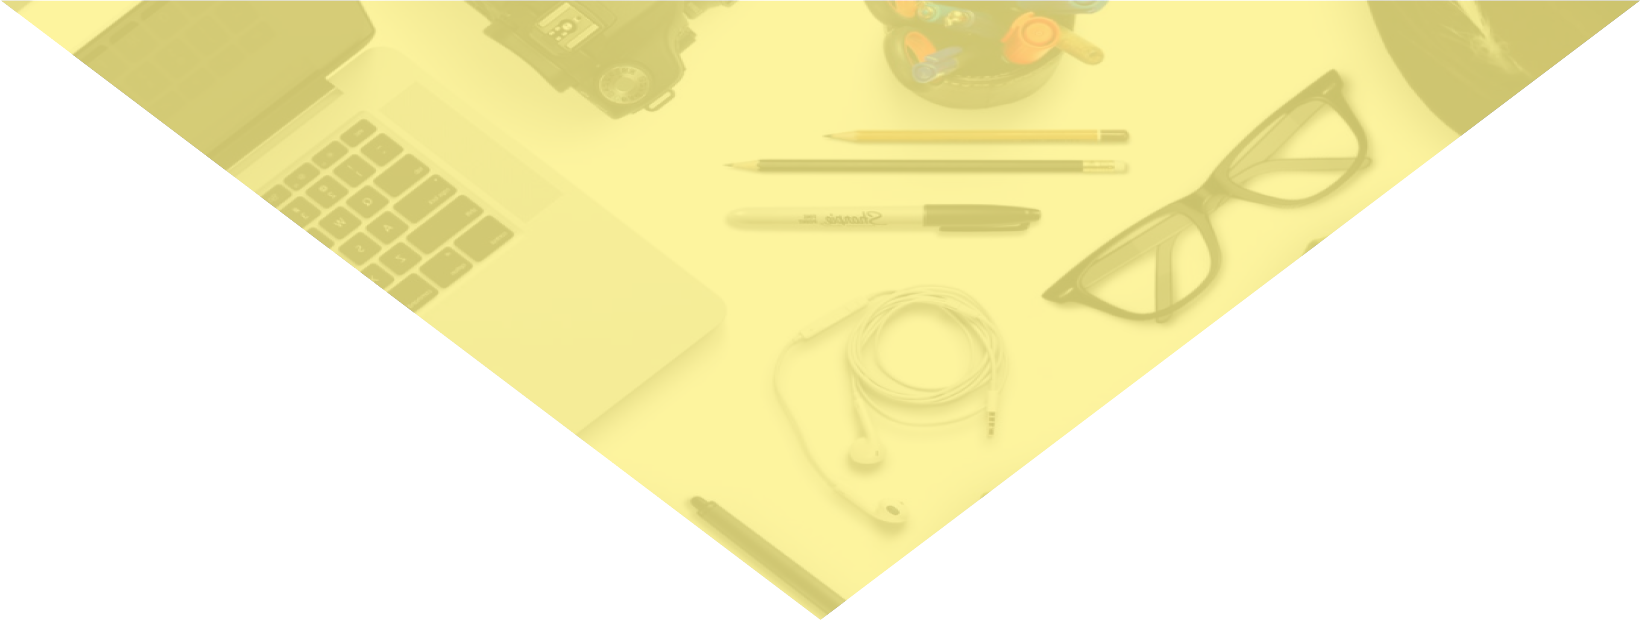
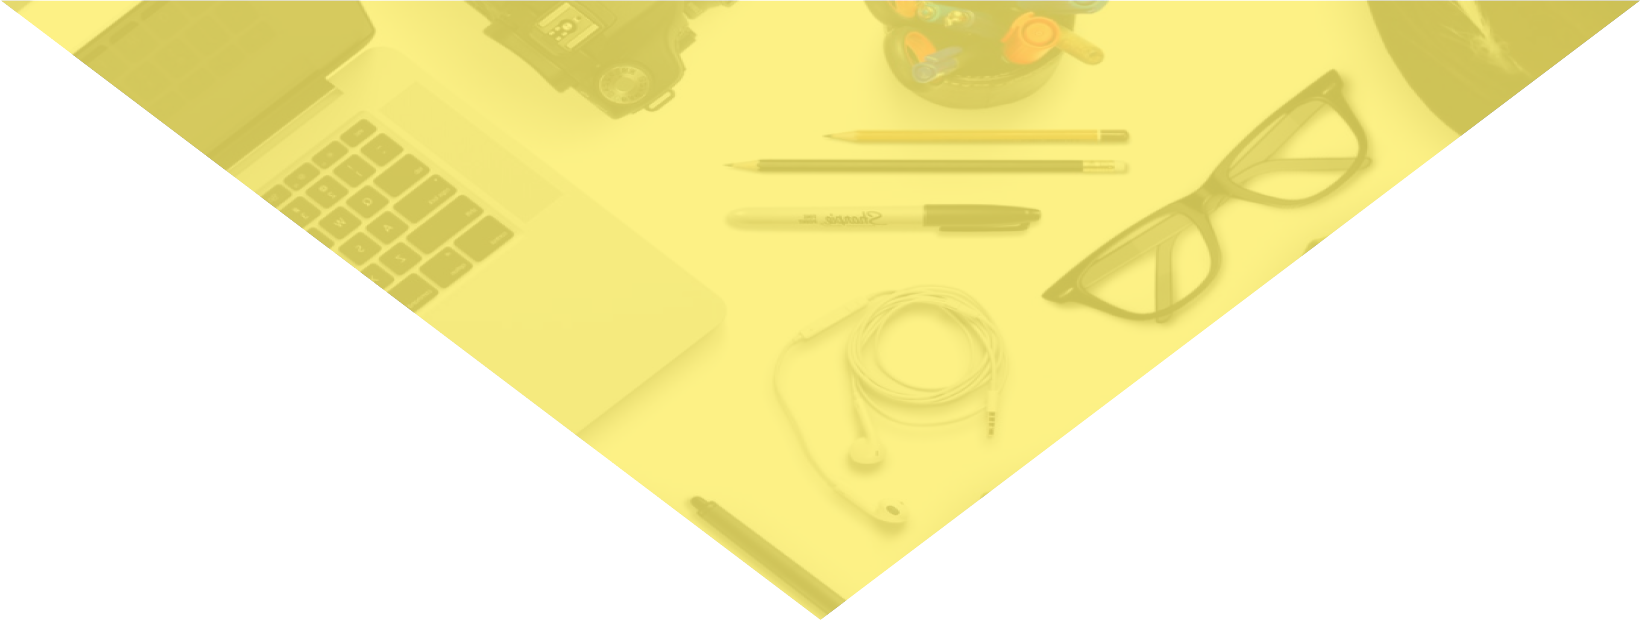
transitions-on-page-change

diff --git a/src/components/MainComponent.js b/src/components/MainComponent.js
@@ -8,6 +8,7 @@ import WorkInfo from './WorkInfoComponent';
 import Contact from './ContactComponent';
 import { Switch, Route, Redirect, withRouter } from 'react-router-dom';
 import { connect } from 'react-redux';
+import { TransitionGroup, CSSTransition } from 'react-transition-group';
 
 const mapStateToProps = state => {
     return {
@@ -37,17 +38,22 @@ class Main extends Component {
             );
         };
 
+
         return (
             <div>
                 <Header />
-                <Switch>
-                    <Route exact path='/home' component={MainPage} />
-                    <Route exact path='/about' component={MainPage} />
-                    <Route exact path='/work' render={() => <Work examples={this.props.examples} />} />
-                    <Route path='/work/:exampleId' component={WorkMatchClick} />
-                    <Route exact path='/contactus' component={Contact} />
-                    <Redirect to='/home' />
-                </Switch>
+                <TransitionGroup>
+                    <CSSTransition key={this.props.location.key} classNames="page" timeout={300}>
+                        <Switch>
+                            <Route exact path='/home' component={MainPage} />
+                            {/* <Route exact path='/about' component={MainPage} /> */}
+                            <Route exact path='/work' render={() => <Work examples={this.props.examples} />} />
+                            <Route path='/work/:exampleId' component={WorkMatchClick} />
+                            <Route exact path='/contactus' component={Contact} />
+                            <Redirect to='/home' />
+                        </Switch>
+                    </CSSTransition>
+                </TransitionGroup>
                 <Footer />
             </div>
 

diff --git a/src/components/HeaderComponent.js b/src/components/HeaderComponent.js
@@ -34,14 +34,14 @@ class Header extends Component {
                                 {/* <a href="#home_id">
                                     HOME</a> */}
                             </NavItem>
-                            <NavItem>
+                            {/* <NavItem>
                                 <NavLink className="nav-link" to="/about">
                                     ABOUT
-                                    </NavLink>
+                                    </NavLink> */}
 
                                 {/* <a href="#about_id">
                                     ABOUT</a> */}
-                            </NavItem>
+                            {/* </NavItem> */}
                             <NavItem>
                                 <NavLink className="nav-link" to="/work">
                                     WORK

diff --git a/src/App.css b/src/App.css
@@ -282,6 +282,36 @@ h5{
     font-size: 0.8rem;
   }
 
+  /* transitions */
+  .page-enter {
+    opacity: 0;
+}
+
+.page-enter-active {
+    opacity: 1;
+    transition: 300ms ease-out;
+}
+
+.page-exit {
+    opacity: 1;
+}
+
+.page-exit-active {
+    opacity: 0;
+    transition: 300ms ease-in;
+}
+
+/* .page-enter {
+  opacity: 0;
+  transform: translateX(-100%);
+}
+
+.page-enter-active {
+  opacity: 1;
+  transform: translateX(0%);
+  transition: 300ms ease-out;
+} */
+
 /* media-queries */
 
 @media (min-width: 576px){
@@ -316,6 +346,11 @@ h5{
   }
 
   /* GraphicComponent */
+  .hero-graphic-photo {
+    padding:0 80px;
+  }
+
+  /* GraphicComponent */
   .overlayed-text h4{
     font-size: 1rem;
   }
@@ -325,7 +360,7 @@ h5{
   }
 
   .graphic-intro-text{
-    max-width:250px;
+    max-width:230px;
   }
 
   /* GraphicComponent */

diff --git a/src/components/AboutComponent.js b/src/components/AboutComponent.js
@@ -4,7 +4,7 @@ import { Button } from 'reactstrap';
 function About(props) {
 
     return (
-        <div id="about_id" className="container my-5">
+        <div id='about_id' className="container my-5">
             <div classname="row">
                 <div className="col-8 text-center pb-4 mx-auto">
                     <h2>ABOUT ME</h2>
@@ -20,5 +20,4 @@ function About(props) {
     );
 }
 
-
-export default About;
+    export default About;

diff --git a/src/shared/hero.js b/src/shared/hero.js
@@ -3,6 +3,6 @@ export const HERO =  [
         id:0,
         title:"Hi!",
         intro:"MY NAME IS ALICIA MORLEY AND I AM A WEB DEVELOPER",
-        image:"assets/images/header.png"
+        image:"assets/images/header-v1.png"
     }
 ]

diff --git a/src/components/GraphicComponent.js b/src/components/GraphicComponent.js
@@ -35,10 +35,4 @@ function RenderHeroGraphicItem({ info }) {
 }
 
 
-
-
-
-
-
-
 export default Graphic;
